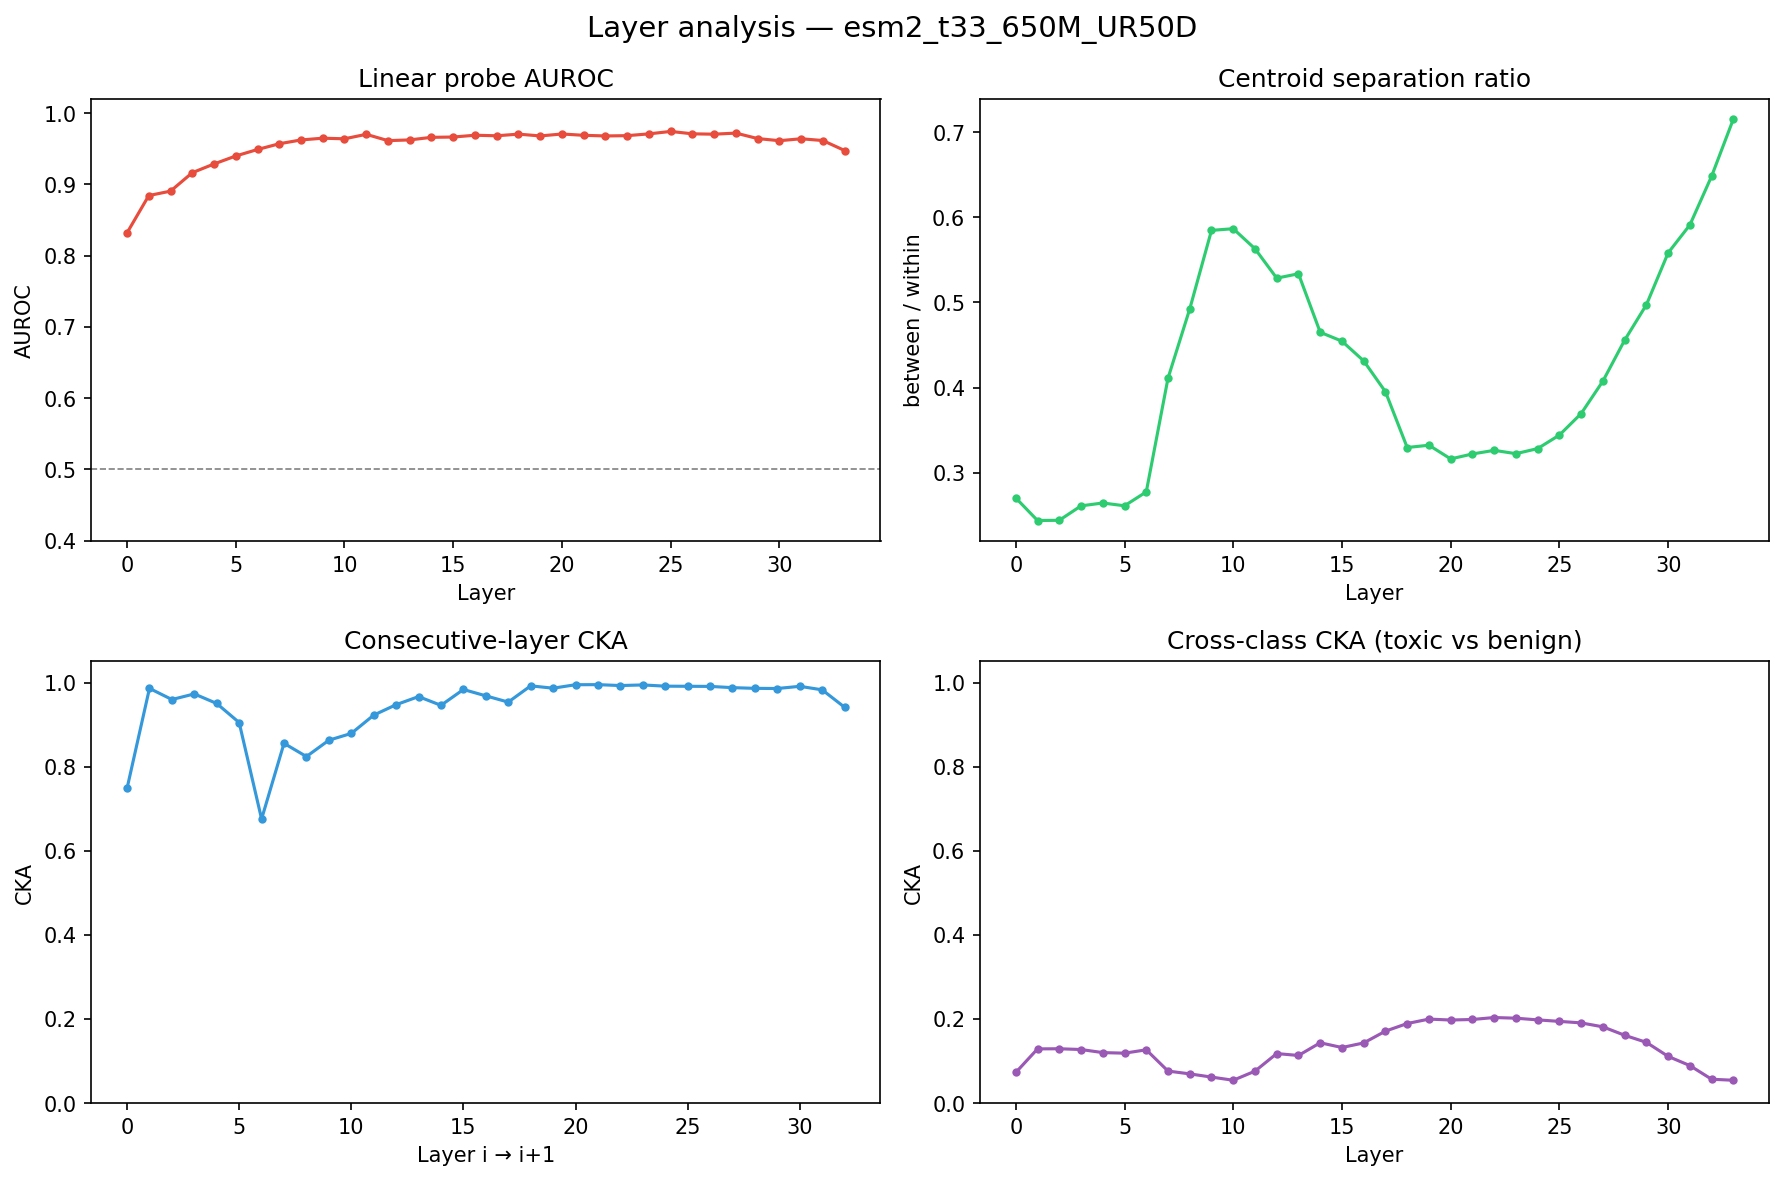
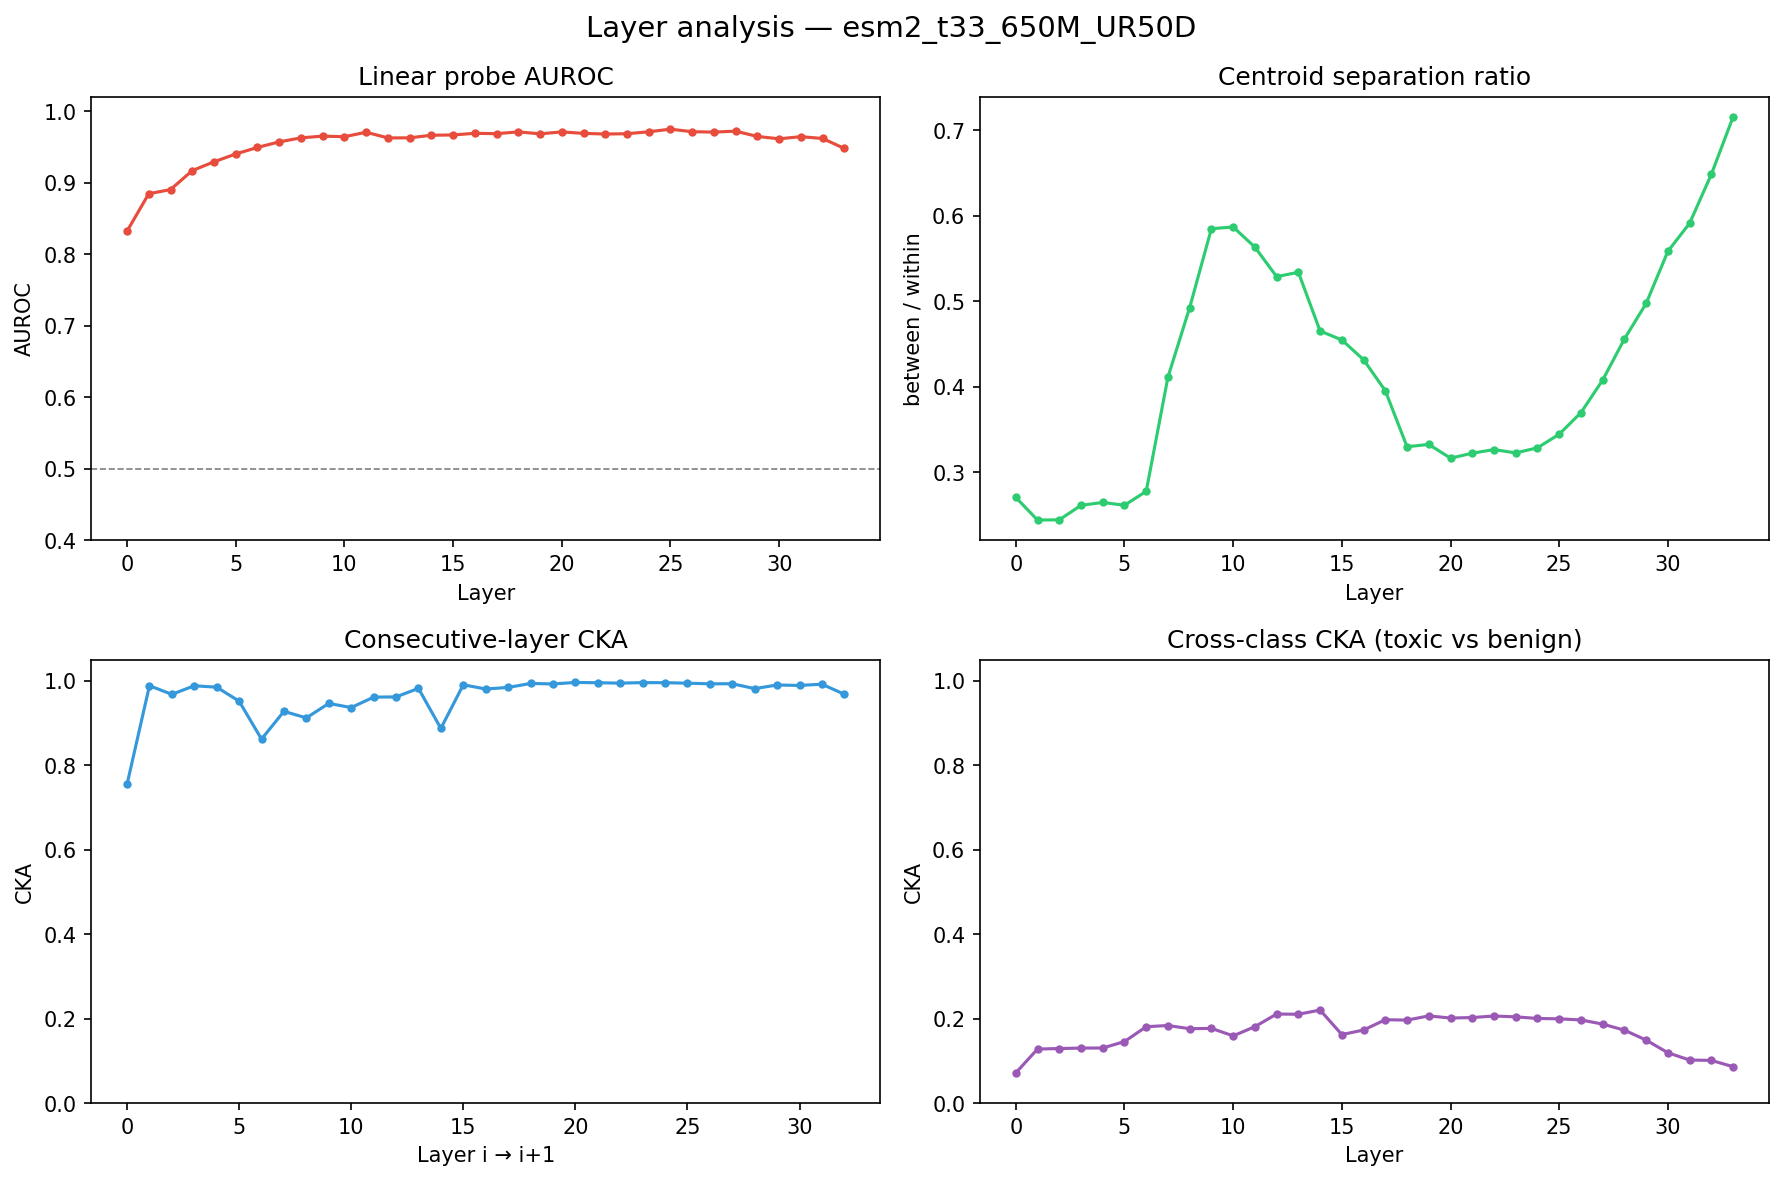
fix: CKA formula overflow + ESM3 embedding bugs
CKA (cka.py):
- Original denominator used Frobenius norms on N×N Gram matrices which
  overflowed in float32 (values 18000+ instead of [0,1])
- Rewritten to use X.T @ Y formulation (d×d), float64, with L2 row
  normalization before centering

ESM3 (embed_esm3.py):
- d_model detection: ffn[0] is LayerNorm not Linear, use .shape[0]
- device="auto" was not resolved before passing to embed_sequence,
  causing all 297 proteins to be skipped
- Tokenizer fallback for newer esm package where model.encode() fails
  (mask_token is None); convert list output to tensor

Updated matched results with corrected CKA figures for ESM2-650M and ESM3.

diff --git a/alxbio_esm/cka.py b/alxbio_esm/cka.py
@@ -12,12 +12,6 @@ import numpy as np
 from tqdm import tqdm
 
 
-def _gram(X: np.ndarray) -> np.ndarray:
-    """Centered linear Gram matrix for (N, d) array."""
-    X = X - X.mean(0)
-    return X @ X.T  # (N, N)
-
-
 def linear_cka(X: np.ndarray, Y: np.ndarray) -> float:
     """
     Linear CKA between representation matrices X and Y.
@@ -30,12 +24,26 @@ def linear_cka(X: np.ndarray, Y: np.ndarray) -> float:
     -------
     float in [0, 1] — 1 means identical representations (up to linear transform)
     """
-    K = _gram(X)
-    L = _gram(Y)
-    hsic_xy = float((K * L).sum())
-    hsic_xx = float(np.linalg.norm(K, "fro"))
-    hsic_yy = float(np.linalg.norm(L, "fro"))
-    return hsic_xy / (hsic_xx * hsic_yy + 1e-12)
+    X = np.asarray(X, dtype=np.float64)
+    Y = np.asarray(Y, dtype=np.float64)
+
+    # L2-normalize each sample to unit norm (removes scale drift across layers)
+    X = X / (np.linalg.norm(X, axis=1, keepdims=True) + 1e-12)
+    Y = Y / (np.linalg.norm(Y, axis=1, keepdims=True) + 1e-12)
+
+    # Center columns
+    X = X - X.mean(axis=0)
+    Y = Y - Y.mean(axis=0)
+
+    # CKA = ||X^T Y||_F^2 / (||X^T X||_F * ||Y^T Y||_F)
+    # This avoids forming N×N Gram matrices when d < N
+    XtY = X.T @ Y
+    XtX = X.T @ X
+    YtY = Y.T @ Y
+
+    numerator = float((XtY * XtY).sum())
+    denom = float(np.sqrt((XtX * XtX).sum() * (YtY * YtY).sum()))
+    return numerator / (denom + 1e-12)
 
 
 def consecutive_layer_cka(X: np.ndarray) -> np.ndarray:
@@ -66,7 +74,7 @@ def cross_class_cka(
     """
     CKA between toxic and benign subspaces at each layer.
 
-    Subsamples to *max_samples* per class so the (N×N) Gram matrices stay small.
+    Subsamples to *max_samples* per class so the Gram matrices stay small.
 
     Parameters
     ----------

diff --git a/alxbio_esm/embed_esm3.py b/alxbio_esm/embed_esm3.py
@@ -87,7 +87,7 @@ def load_esm3(
 
     n_params = sum(p.numel() for p in model.parameters()) / 1e9
     n_layers = len(model.transformer.blocks)
-    d_model = model.transformer.blocks[0].ffn[0].weight.shape[1]
+    d_model = model.transformer.blocks[0].ffn[0].weight.shape[0]
     print(f"[esm3] {n_params:.1f}B params | {n_layers} layers | d_model={d_model} | {precision}")
     return model
 
@@ -151,9 +151,18 @@ def embed_sequence(
     collector.reset()
 
     protein = ESMProtein(sequence=seq)
-    tokens = model.encode(protein)
+    try:
+        tokens = model.encode(protein)
+        seq_tokens = tokens.sequence
+    except (TypeError, AttributeError):
+        # Fallback: tokenize sequence directly
+        seq_tokens = model.tokenizers.sequence.encode(seq)
 
-    model.forward(sequence_tokens=tokens.sequence.unsqueeze(0))
+    if not isinstance(seq_tokens, torch.Tensor):
+        seq_tokens = torch.tensor(seq_tokens, dtype=torch.long)
+    seq_tokens = seq_tokens.to(device)
+
+    model.forward(sequence_tokens=seq_tokens.unsqueeze(0))
 
     raw = collector.collect()
     n_layers = len(raw)
@@ -193,6 +202,7 @@ def embed_dataset(
     model_dir = out_dir / model_name.replace("/", "_")
     model_dir.mkdir(parents=True, exist_ok=True)
 
+    device = get_device(device)
     model = load_esm3(model_name, device, precision)
     collector = _LayerCollector(model)
 
